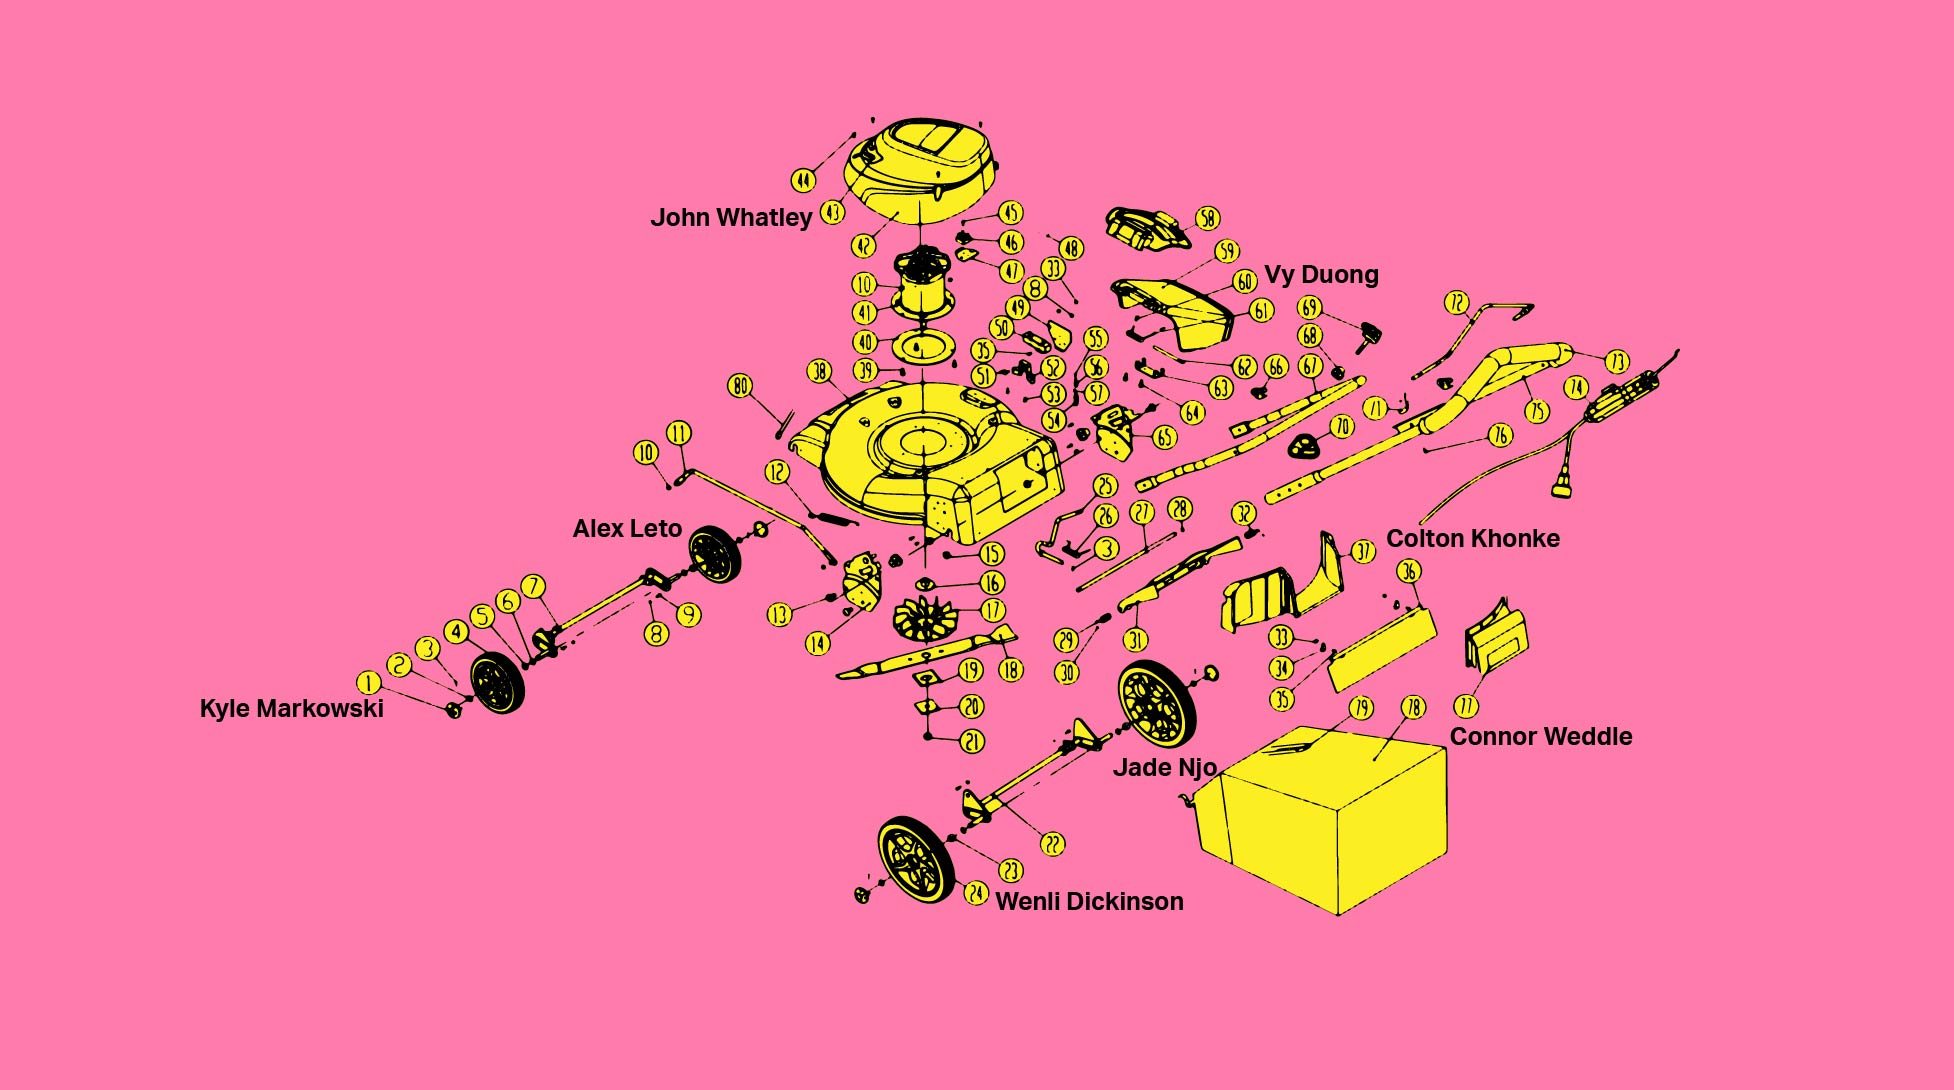
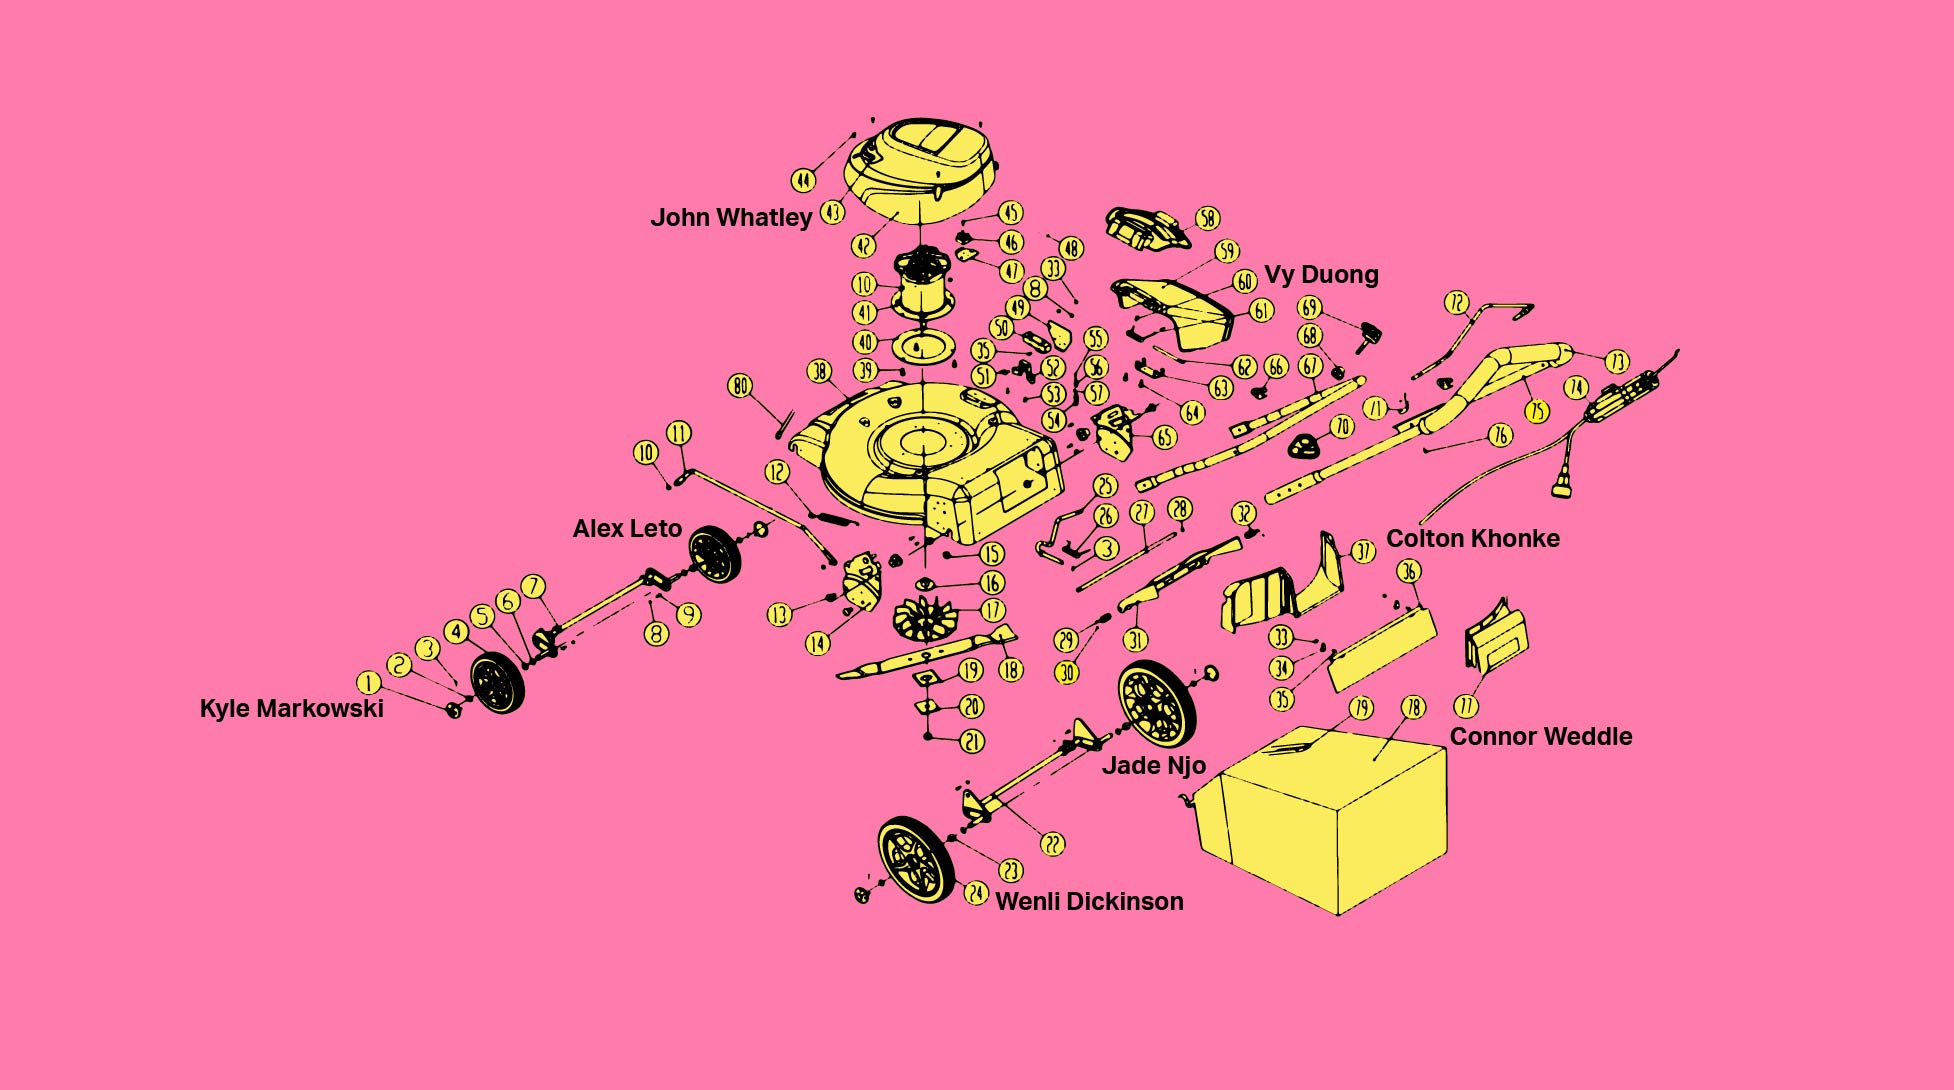
updated lawn mower link

diff --git a/css/home.css b/css/home.css
@@ -26,7 +26,7 @@ section {
 .staff {
   width:100vw;
   height:100vh;
-  background-image: url("../images/auxavian_staff_lawnmower.gif");
+  background-image: url("../images/auxavian_staff_lawnmower.jpg");
   background-repeat: no-repeat;
   background-size:  auto 100vh;
 }
